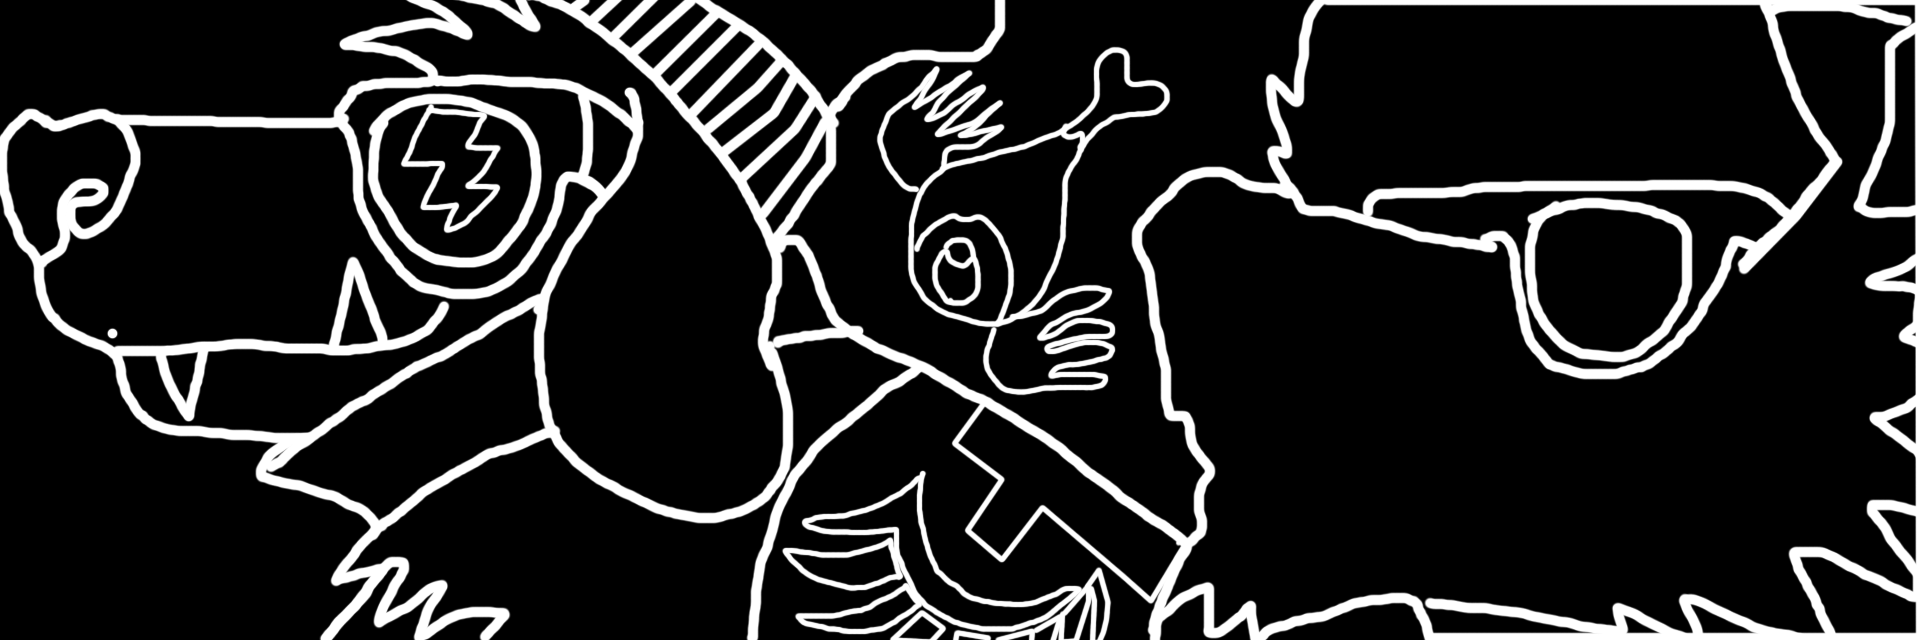
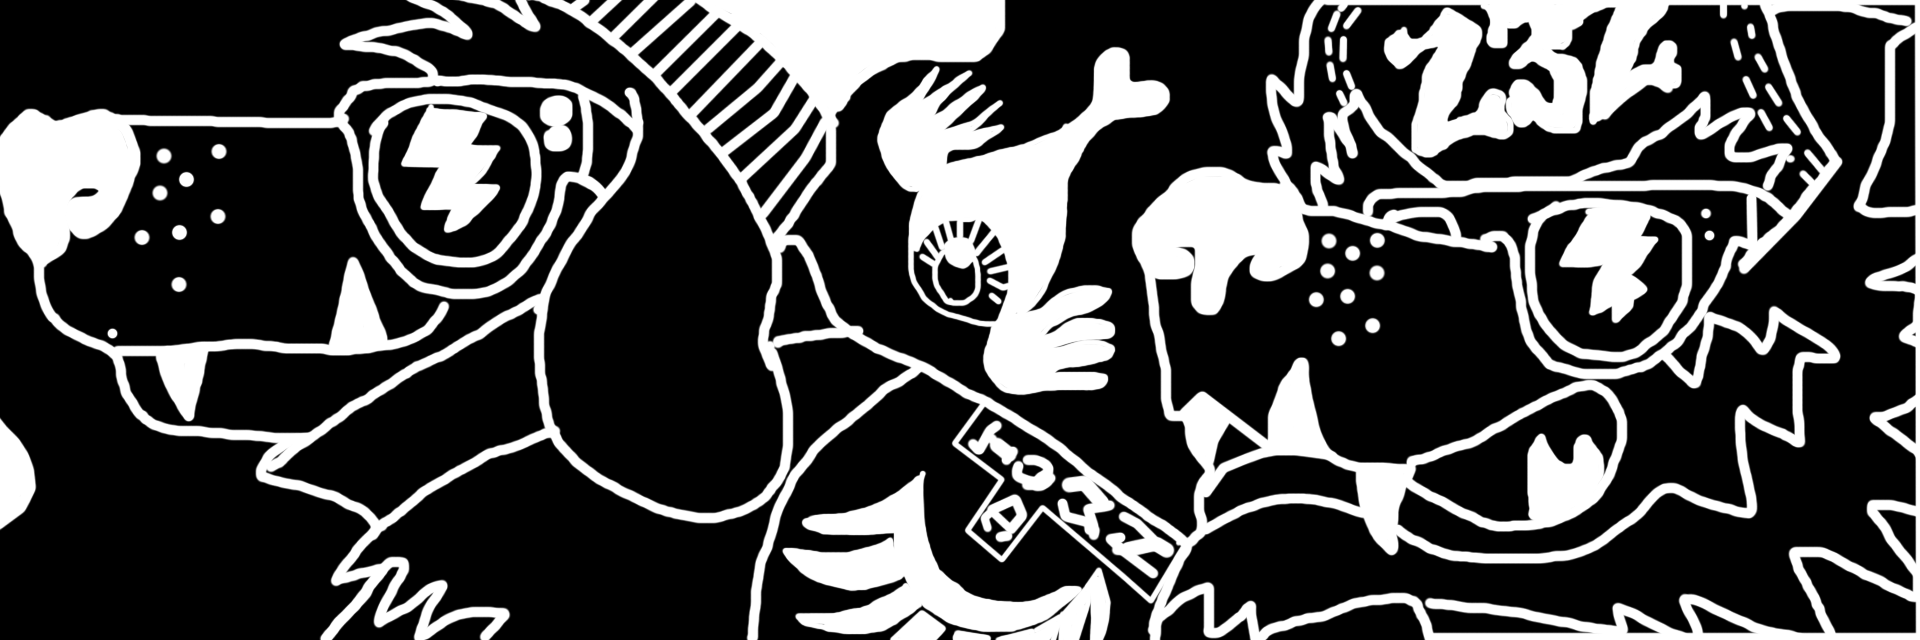
Mask1 updated

diff --git a/README.md b/README.md
@@ -12,4 +12,6 @@ After playing around with the grid code, I decided to use aspects of it into my 
 
 Started working on my third image. This will be more focused on the nature side. After all the events happening in America, I'm planning on basing this third image on the idea of nature and how they can't talk for themselves. This idea is very similar to the George Floyd situation, which both have this aspect. Another idea could be some sort of breathing message which is also used in both nature and the America situation. I still need to think on some ideas on how I could show this.  
 
-I've decided that the only image that I'm not so happy with is the first image that I added. I then thought of some ideas I could portray in my photo, in which one of them was about neighborhoods. I wanted to have a picture which would describe Tawa. It uses the numbers '232' to represent the calling area with skateboarding dogs which are hanging out by the pool watching shark and fish tail skateboards splash around in the water. This was graffiti taken outside the local Tawa skatepark. I wanted to use this picture as it represents Tawa in one graffiti. For my mask, I'm wanting to highlight the features such as the '232' number, the lightning in the glasses, the Dtown shirt, and the chicken eye ball wings as these interest the users the most.     
+I've decided that the only image that I'm not so happy with is the first image that I added. I then thought of some ideas I could portray in my photo, in which one of them was about neighborhoods. I wanted to have a picture which would describe Tawa. It uses the numbers '232' to represent the calling area with skateboarding dogs which are hanging out by the pool watching shark and fish tail skateboards splash around in the water. This was graffiti taken outside the local Tawa skatepark. I wanted to use this picture as it represents Tawa in one graffiti. For my mask, I'm wanting to highlight the features such as the '232' number, the lightning in the glasses, the Dtown shirt, and the chicken eye ball wings as these interest the users the most.
+
+After playing around with the masks, I've filled the bits I wanted to show such as the lighting in the sunglasses, the 232 cellphone area code, the dtown shirt, and the eye chicken wing. My next steps are to potentially play with the colour schemes to highlight some of the important ideas in all three pictures. At this stage, I'm very happy with how my pictures have turned out.          
